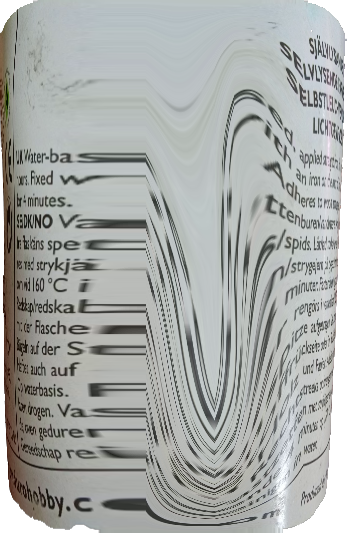
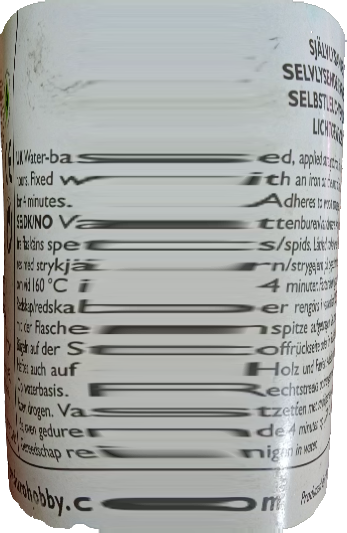
update in detection of row/column

diff --git a/code/depth_estimator.py b/code/depth_estimator.py
@@ -79,12 +79,12 @@ class DepthCorrection:
         #depth_mask = cv2.medianBlur(depth_mask, 55)
         cv2.imwrite('d_msk_blr.png', depth_mask)
         depth_mask_long = cv2.GaussianBlur(depth_mask, (5, blr_h), 100)
-        map_a = np.array([self.get_map_row(depth_mask_long[y])
+        map_a = np.array([self.get_map_row(depth_mask_long[y], 'lat')
                           for y in range(height)]).astype(np.float32)
 
         depth_mask_lat = cv2.GaussianBlur(depth_mask, (blr_w, 5), 200)
         map_b = np.transpose(np.array([
-            self.get_map_row([w_vals[x] for w_vals in depth_mask_lat])
+            self.get_map_row([w_vals[x] for w_vals in depth_mask_lat], 'long')
             for x in range(width)
             ]), (1, 0, 2)).astype(np.float32)
 
@@ -113,28 +113,33 @@ class DepthCorrection:
         cv2.imwrite('flat_img.png', flattened_image)
         self.frame = flattened_image
 
-    def get_map_row(self, pixel_row):
+    def get_map_row(self, pixel_row, direction: str):
         """
         uses self.distribute to get values for map.
         """
-        map_row = self.distribute_pixels(pixel_row)
+        map_row = self.distribute_pixels(pixel_row, direction)
         if len(map_row) == len(pixel_row):
             return map_row
         else:
             print(pixel_row)
             print(map_row)
 
-    def distribute_pixels(self, pixels) -> np.ndarray:
+    def distribute_pixels(self, pixels, direction) -> np.ndarray:
         """
         returns the pixels with their new placement.
         figures out what method to use to distribute and uses it.
         """
-
-        non_zero = [n for n in pixels if n > 0]
+        # calls wrong method sometimes?
+        # send full img instead and transpose it?
         pixels = cv2.normalize(np.array(pixels), None, 0, 255, cv2.NORM_MINMAX)
+        if direction == 'lat':
+            pixels = self.distribute_surface(pixels)
+        if direction == 'long':
+            pixels = self.distribute_perspective(pixels)
+        """
+        non_zero = [n for n in pixels if n > 0]
         pixels = [int(pixel) for pixel in pixels]
-
-        if sum(non_zero[len(non_zero)//3:
+            if sum(non_zero[len(non_zero)//3:
                         (len(non_zero)//3)*2]
                ) < sum(non_zero[:len(non_zero)//3]) and\
             sum(non_zero[len(non_zero)//3:
@@ -143,7 +148,7 @@ class DepthCorrection:
             pixels = self.distribute_surface(pixels)
 
         else:
-            pixels = self.distribute_perspective(pixels)
+            pixels = self.distribute_perspective(pixels)"""
 
         pixels = np.array(pixels)
         pixels = cv2.normalize(pixels, None, 0, len(pixels), cv2.NORM_MINMAX)
@@ -155,6 +160,7 @@ class DepthCorrection:
         to lowest value.
         TODO:
         modify to get more space to high depth value
+        This does the opposite of what wanted?
         """
         return_map = [0]
 
@@ -173,8 +179,8 @@ class DepthCorrection:
         return_map = [0]
         for pixel_value, percentile in zip(
                            pixels, np.linspace(1, 2, len(pixels))):
-            if mean(pixels) == 0:
-                pixels[-1] = len(pixels)
+            #if mean(pixels) == 0:
+            #    pixels[-1] = len(pixels)
             #return_map.append(return_map[-1] +
             #                  (len(return_map)*pixel_value)**percentile)
             return_map.append(len(return_map))
